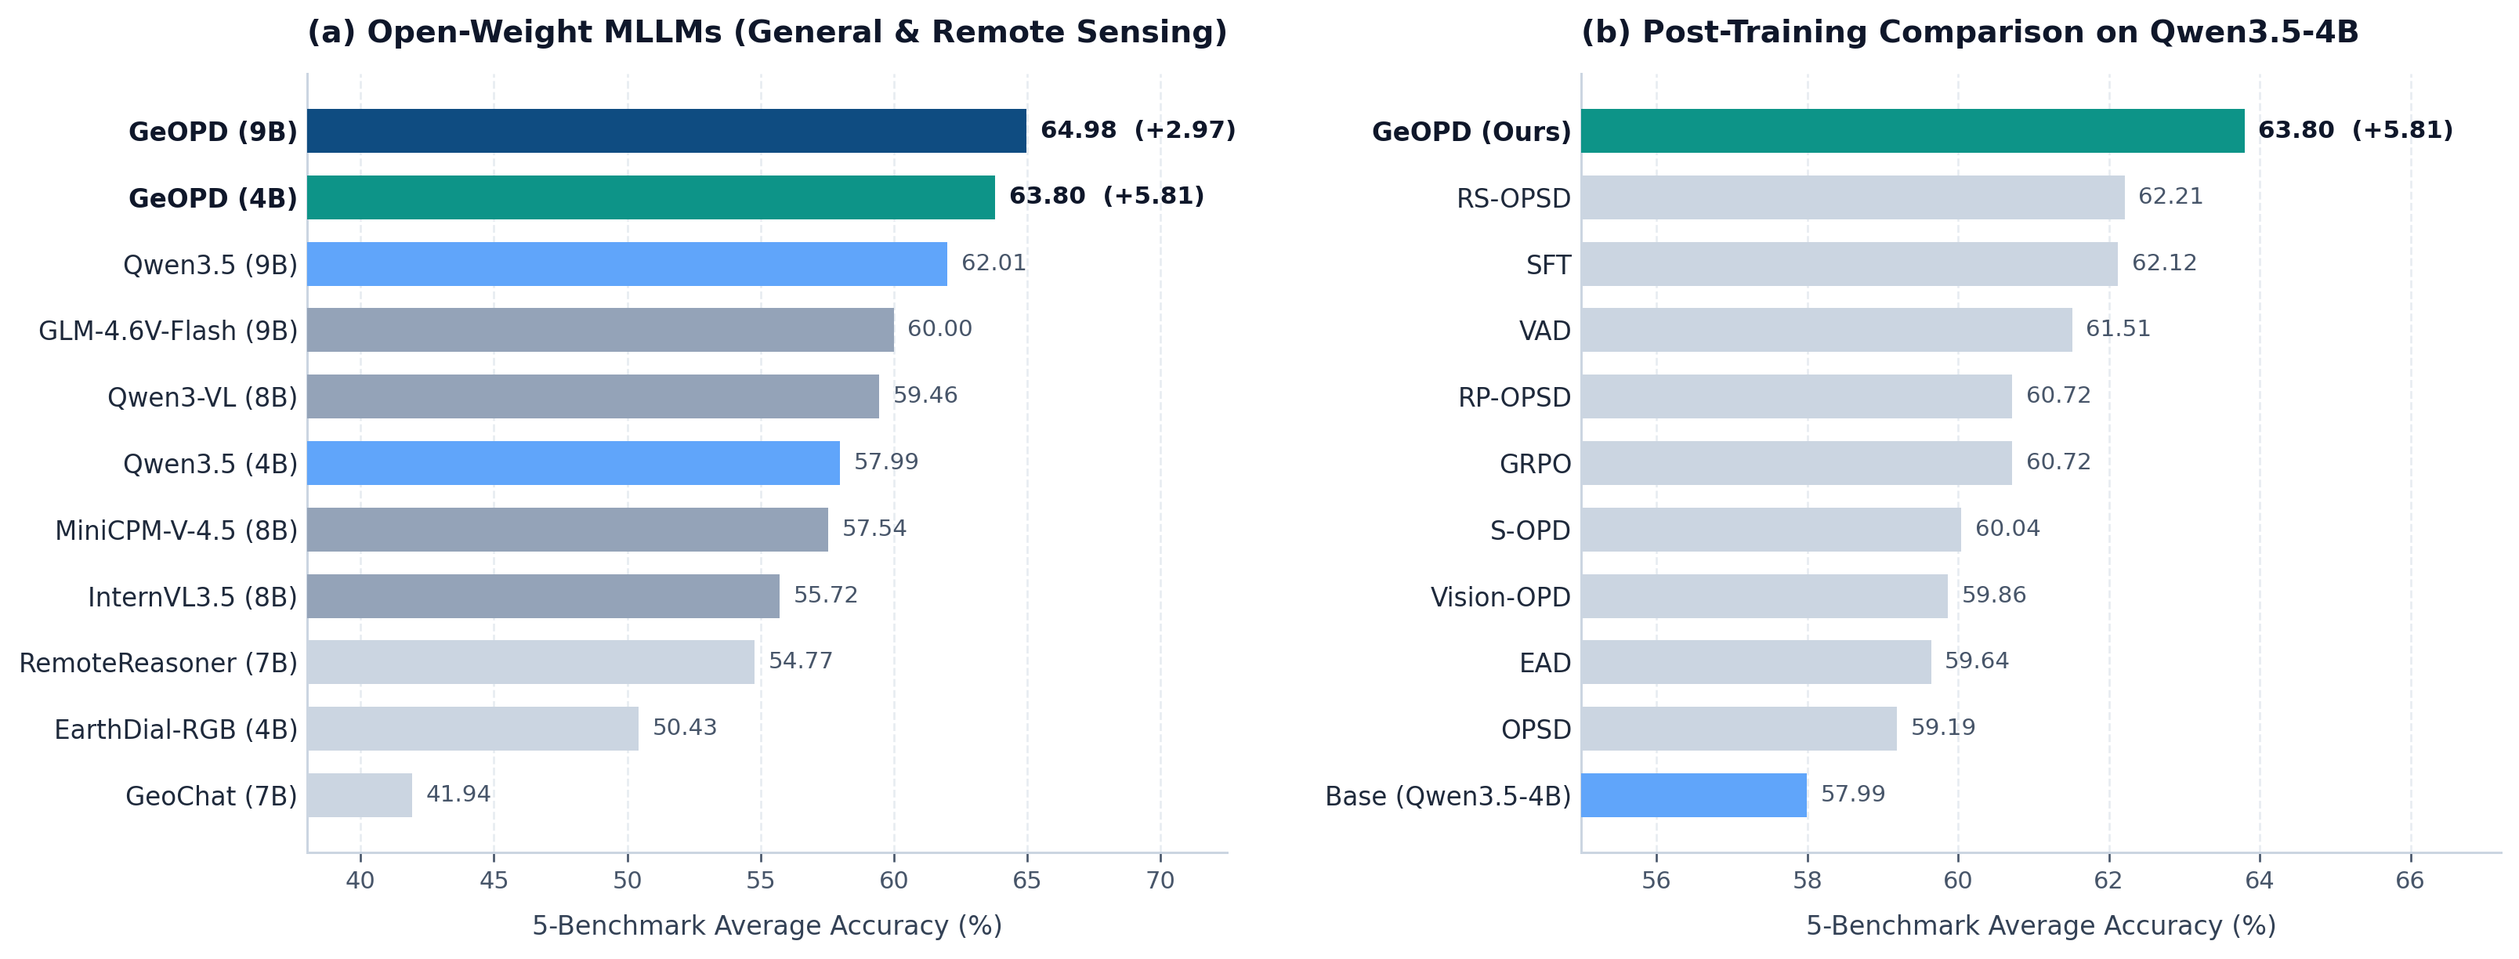
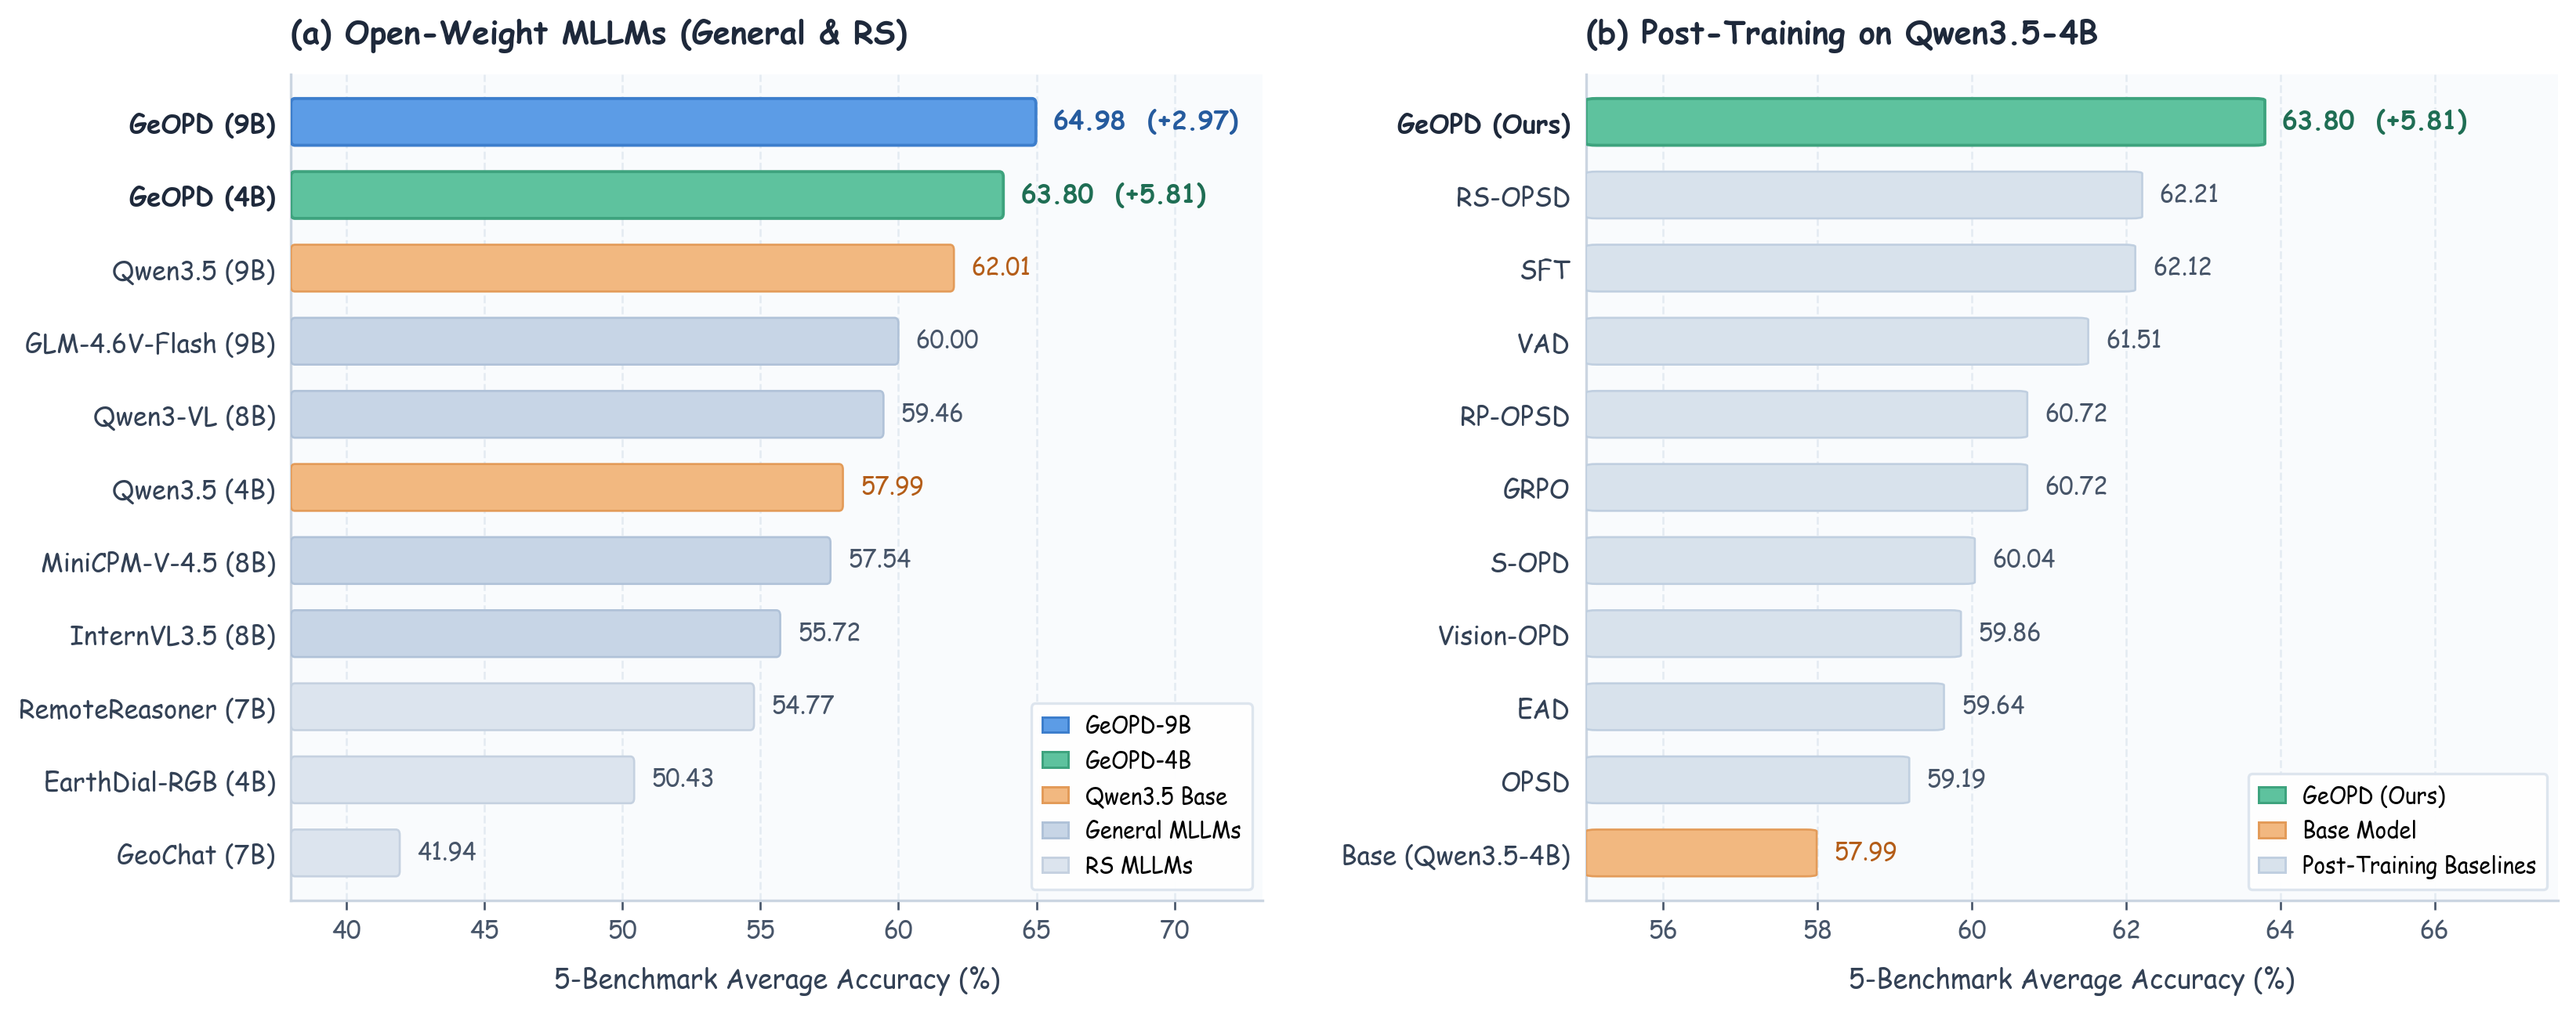
Refresh benchmark chart style and organize acknowledgements

diff --git a/README.md b/README.md
@@ -447,7 +447,18 @@ Both runs use **5,394** GeoContext-5K training questions, **96** questions per u
 
 ## Acknowledgements
 
-We thank the authors and maintainers of **Qwen3.5**, **VRSBench**, **LRS-GRO**, **RS5M**, **CHOICE**, **GEOBench-VLM**, **OmniEarth**, **HRVQA**, and **LHRS-Bench** for making their models and datasets publicly available.
+We thank the teams behind the following datasets, methods, and base models for making their resources publicly available:
+
+### Datasets
+
+- **VRSBench** — [Paper](https://arxiv.org/abs/2406.12384) · [Code](https://github.com/lx709/VRSBench) · [Dataset](https://huggingface.co/datasets/xiang709/VRSBench)
+- **LRS-GRO (ZoomEarth)** — [Paper](https://arxiv.org/abs/2511.12267) · [Code](https://github.com/earth-insights/ZoomEarth) · [Dataset](https://huggingface.co/datasets/earth-insights/LRS-GRO)
+- **RS5M** — [Paper](https://arxiv.org/abs/2306.11300) · [Code](https://github.com/om-ai-lab/RS5M) · [Dataset](https://huggingface.co/datasets/omlab/RS5M)
+
+### Methods & Models
+
+- **Vision-OPD** — [Paper](https://arxiv.org/abs/2605.18740) · [Code](https://github.com/VisionOPD/Vision-OPD)
+- **Qwen3.5** — [Blog](https://qwen.ai/blog?id=qwen3.5) · [Models](https://huggingface.co/Qwen)
 
 ## Citation
 
